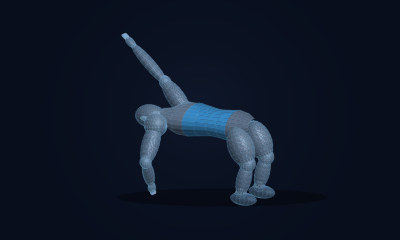
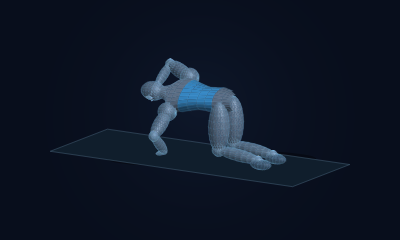
Refine 13 exercise demos with coordinated motion and fitted equipment

diff --git a/resources/js/Support/exerciseApparatusRefinements.js b/resources/js/Support/exerciseApparatusRefinements.js
@@ -1,0 +1,200 @@
+/** Dedicated apparatus and coordinated movement cycles for the eighth artwork revision. */
+import { motionGeometry as g } from './exerciseMotionRefinements.js';
+const { sides, add, sub, mul, unit, mix, cycle, bend, arm, leg, trunk, feet, sample } = g;
+const tau = Math.PI * 2;
+export const APPARATUS_DEMOS = ['rowing-machine', 'shoulder-press', 'stair-climber', 'skull-crusher', 'mountain-climber', 'seated-calf-raise', 'pull-up', 'swimming', 't-bar-row', 'thoracic-rotation', 'triceps-bench-dip', 'glute-bridge', 'burpee'];
+
+export function apparatusPose(pose, slug, phase) {
+    const t = (1 - Math.cos(tau * phase)) / 2;
+    pose.prone = false; pose.horizontal = false; pose.palms = false;
+    pose.grip = !['swimming', 'thoracic-rotation', 'glute-bridge', 'mountain-climber', 'burpee', 'triceps-bench-dip'].includes(slug);
+    trunk(pose, [0, .94, 0]); feet(pose);
+    if (slug === 'rowing-machine') {
+        const [slide, tilt, pull] = sample([[0, 0, .18, 0], [.26, 1, .18, 0], [.40, 1, -.18, 1], [.54, 1, -.18, 0], [.64, 1, .18, 0], [1, 0, .18, 0]], phase);
+        trunk(pose, [0, .53, .20 - .40 * slide], [0, Math.cos(tilt), Math.sin(tilt)]);
+        pose.legs = sides.map(side => leg(add(pose.pelvis, [side * .12, 0, 0]), [side * .14, .22, .58], [0, 1, 0]));
+        const shoulderZ = pose.arms[0].shoulder[2];
+        pose.arms = pose.arms.map((a, i) => arm(a.shoulder, [sides[i] * .08, .90, shoulderZ + .50 - .29 * pull], sides[i], [sides[i], -.3, -1]));
+    } else if (slug === 'shoulder-press') {
+        pose.arms = pose.arms.map((a, i) => arm(a.shoulder, [sides[i] * (.47 - .31 * t), 1.53 + .46 * t, .04], sides[i], [sides[i], -1, 0]));
+    } else if (slug === 'skull-crusher') {
+        pose.horizontal = true;
+        trunk(pose, [0, .61, .20], [0, 0, -1]); feet(pose, .23, .76);
+        pose.arms = pose.arms.map(a => {
+            const elbow = add(a.shoulder, [0, .30, -.015]), angle = .06 + 1.78 * t;
+            return { shoulder: a.shoulder, elbow, wrist: add(elbow, [0, .28 * Math.cos(angle), -.28 * Math.sin(angle)]) };
+        });
+    } else if (slug === 'pull-up') {
+        trunk(pose, [0, 1.12 + .42 * t, 0]); feet(pose, .14, .02, .285 + .42 * t);
+        pose.arms = pose.arms.map((a, i) => arm(a.shoulder, [sides[i] * .31, 2.20, 0], sides[i], [sides[i], -.4, .15]));
+    } else if (slug === 'seated-calf-raise') {
+        trunk(pose, [0, .61, 0]);
+        const angle = .20 + .70 * t;
+        pose.footTips = sides.map(side => [side * .15, .15, .56]);
+        pose.legs = sides.map((side, i) => {
+            const ankle = add(pose.footTips[i], [0, .14 * Math.sin(angle), -.14 * Math.cos(angle)]);
+            return { hip: [side * .12, .61, 0], knee: [side * .15, ankle[1] + .429, ankle[2] - .015], ankle };
+        });
+        pose.arms = pose.arms.map((a, i) => arm(a.shoulder, add(pose.legs[i].knee, [sides[i] * .07, .15, -.08]), sides[i]));
+    } else if (slug === 'stair-climber') {
+        trunk(pose, [0, 1.15 + .008 * Math.cos(tau * phase * 2), 0]);
+        pose.legs = sides.map((side, i) => {
+            const u = cycle(phase + i * .5), swing = Math.max(0, (u - .60) / .40);
+            const progress = swing ? .60 * (1 - g.smooth(swing)) : u;
+            const ankle = [side * .14, .56 - .36 * progress + .10 * Math.sin(Math.PI * swing), .30 - .45 * progress];
+            return leg(add(pose.pelvis, [side * .12, -.025, 0]), ankle);
+        });
+        pose.arms = pose.arms.map((a, i) => arm(a.shoulder, [sides[i] * .34, 1.58, .48], sides[i], [sides[i], -.8, 0]));
+    } else if (slug === 'mountain-climber') {
+        pose.prone = true; pose.palms = true;
+        const axis = unit([0, .29, -.957]);
+        trunk(pose, [0, .35, .17], axis);
+        pose.arms = pose.arms.map((a, i) => arm(a.shoulder, [sides[i] * .25, .065, -.37], sides[i], [sides[i], .2, .7]));
+        pose.legs = sides.map((side, i) => {
+            const drive = Math.max(0, Math.sin(tau * phase + i * Math.PI));
+            const hip = add(pose.pelvis, [side * .12, 0, 0]), ankle = [side * .15, .08 + .08 * drive, .96 - 1.05 * drive];
+            return leg(hip, ankle, [0, 1, -1]);
+        });
+    } else if (slug === 'swimming') {
+        pose.prone = true; pose.horizontal = true;
+        const roll = .10 * Math.sin(tau * phase);
+        trunk(pose, [0, .51, .12], [0, 0, -1], [Math.cos(roll), Math.sin(roll), 0]);
+        pose.arms = pose.arms.map((a, i) => {
+            const u = cycle(phase + i * .5);
+            const [y, z] = sample([[0, 0, -.56], [.20, -.23, -.36], [.45, -.12, .46], [.62, .22, .28], [.85, .16, -.40], [1, 0, -.56]], u);
+            return arm(a.shoulder, add(a.shoulder, [sides[i] * .03, y, z]), sides[i], [sides[i] * .3, u < .45 ? -1 : 1, 0]);
+        });
+        pose.legs = sides.map((side, i) => {
+            const hip = add(pose.pelvis, [side * .12, 0, 0]), kick = .10 * Math.sin(tau * phase * 2 + i * Math.PI);
+            const axis = [0, Math.sin(kick), Math.cos(kick)], knee = add(hip, mul(axis, .43));
+            return { hip, knee, ankle: add(knee, mul(axis, .43)) };
+        });
+        pose.footTips = pose.legs.map(l => add(l.ankle, [0, 0, .15]));
+    } else if (slug === 't-bar-row') {
+        trunk(pose, [0, .87, -.15], unit([0, .62, .785])); feet(pose, .25);
+        const angle = .36 + .18 * t, pivot = [0, .055, 1.75], grip = add(pivot, [0, 1.75 * Math.sin(angle), -1.75 * Math.cos(angle)]);
+        pose.arms = pose.arms.map((a, i) => arm(a.shoulder, add(grip, [sides[i] * .08, 0, 0]), sides[i], [sides[i], -.3, -1]));
+    } else if (slug === 'thoracic-rotation') {
+        pose.prone = true; pose.palms = true;
+        const turn = 1.12 * t, right = [Math.cos(turn), Math.sin(turn), 0];
+        trunk(pose, [0, .56, .28], [0, 0, -1], right);
+        pose.pelvisRight = [1, 0, 0];
+        pose.legs = sides.map(side => ({ hip: [side * .12, .56, .28], knee: [side * .13, .13, .28], ankle: [side * .13, .085, .705] }));
+        pose.arms[0] = arm(pose.arms[0].shoulder, [-.23, .065, -.23], -1, [-1, 0, 0]);
+        const a = pose.arms[1], wrist = add(pose.head, mul(right, .075));
+        pose.arms[1] = arm(a.shoulder, wrist, 1, right);
+    } else if (slug === 'triceps-bench-dip') {
+        pose.palms = true;
+        trunk(pose, [0, .54 - .20 * t, .16], unit([0, 1, -.08])); feet(pose, .18, .72);
+        pose.arms = pose.arms.map((a, i) => arm(a.shoulder, [sides[i] * .31, .56, -.15], sides[i], [sides[i] * .2, -.1, -1]));
+    } else if (slug === 'glute-bridge') {
+        pose.horizontal = true;
+        const angle = .05 + .55 * t, up = [0, -Math.sin(angle), -Math.cos(angle)], neck = [0, .13, -.38];
+        trunk(pose, sub(neck, mul(up, .63)), up);
+        pose.head = [0, .13, -.54];
+        pose.legs = sides.map(side => leg(add(pose.pelvis, [side * .12, 0, 0]), [side * .18, .08, .73], [0, 1, 0]));
+        pose.arms = pose.arms.map((a, i) => arm(a.shoulder, [sides[i] * .29, .065, .25], sides[i], [sides[i], .2, 0]));
+    } else if (slug === 'burpee') {
+        const [hipY, hipZ, tilt, ankleZ, ankleY, handY, handZ] = sample([
+            [0, .94, 0, 0, .05, .08, .90, .05],
+            [.12, .40, -.05, 1.25, .05, .08, .065, .55],
+            [.20, .39, -.16, 1.22, -.48, .20, .065, .55],
+            [.28, .346, -.214, 1.245, -1, .08, .065, .55],
+            [.39, .21, -.175, 1.46, -1, .08, .065, .55],
+            [.50, .346, -.214, 1.245, -1, .08, .065, .55],
+            [.57, .39, -.16, 1.22, -.48, .20, .065, .55],
+            [.64, .40, -.05, 1.25, .05, .08, .065, .55],
+            [.78, 1.19, 0, 0, .05, .33, 2.22, .07],
+            [.89, .80, -.06, .15, .05, .08, 1.15, .24],
+            [1, .94, 0, 0, .05, .08, .90, .05],
+        ], phase);
+        trunk(pose, [0, hipY, hipZ], [0, Math.cos(tilt), Math.sin(tilt)]);
+        feet(pose, .18, ankleZ, ankleY);
+        pose.legs.forEach(l => { l.knee = bend(l.hip, l.ankle, .43, .43, [0, 1, 1]); });
+        pose.arms = pose.arms.map((a, i) => arm(a.shoulder, [sides[i] * .25, handY, handZ], sides[i], [sides[i] * .65, .55, -.6]));
+        pose.palms = handY < .12;
+    }
+    return pose;
+}
+
+export function apparatusEquipment(pose, slug, phase) {
+    const items = [];
+    const line = (points, role = 'frame', width = 4, color = '#839db5') => items.push({ type: 'line', points, role, width, color });
+    const face = (points, role = 'pad', color = '#30495e') => items.push({ type: 'face', points, role, color });
+    const ball = (center, radii, role = 'weight', color = [66, 92, 116], basis) => items.push({ type: 'ellipsoid', center, radii, role, color, basis });
+    const pad = (y, z0, z1, width = .22, role = 'bench') => {
+        face([[-width, y, z0], [width, y, z0], [width, y, z1], [-width, y, z1]], role);
+        for (const z of [z0 + .06, z1 - .06]) {
+            line([[0, .04, z], [0, y, z]]);
+            line([[-width - .10, .04, z], [width + .10, .04, z]]);
+        }
+    };
+    const dumbbell = center => {
+        line([add(center, [0, 0, -.10]), add(center, [0, 0, .10])], 'grip', 3, '#c4d5e6');
+        for (const sign of sides) ball(add(center, [0, 0, sign * .10]), [.065, .065, .03]);
+    };
+    if (['glute-bridge', 'thoracic-rotation', 'mountain-climber', 'burpee'].includes(slug)) face([[-.50, -.008, -1.30], [.50, -.008, -1.30], [.50, -.008, 1.30], [-.50, -.008, 1.30]], 'ground', '#101e2c');
+    if (['shoulder-press', 'skull-crusher'].includes(slug)) pose.arms.forEach(a => dumbbell(a.wrist));
+    if (slug === 'skull-crusher') pad(.49, -.75, .38);
+    if (slug === 'pull-up') {
+        line([[-.65, 2.20, 0], [.65, 2.20, 0]], 'pull-up-bar', 4, '#b9cfe5');
+        for (const side of sides) { line([[side * .65, .04, 0], [side * .65, 2.20, 0]], 'upright'); line([[side * .65, .04, -.4], [side * .65, .04, .4]], 'base'); }
+    }
+    if (slug === 'triceps-bench-dip') pad(.495, -.45, -.10, .5, 'hand-support');
+    if (slug === 'rowing-machine') {
+        line([[0, .32, -.55], [0, .32, .78]], 'seat-rail', 6);
+        for (const z of [-.55, .85]) line([[-.36, .06, z], [.36, .06, z]], 'base', 5);
+        const seatZ = pose.pelvis[2];
+        face([[-.23, .42, seatZ - .14], [.23, .42, seatZ - .14], [.23, .42, seatZ + .14], [-.23, .42, seatZ + .14]], 'sliding-seat');
+        ball([0, .46, 1.04], [.13, .34, .34], 'flywheel', [53, 75, 95]);
+        line([[0, .09, .85], [0, .65, 1.04], [0, .78, .97]], 'frame');
+        face([[-.14, .79, .93], [.14, .79, .93], [.14, .91, 1.02], [-.14, .91, 1.02]], 'display', '#335676');
+        for (const l of pose.legs) {
+            const x = l.ankle[0];
+            face([[x - .09, .12, .51], [x + .09, .12, .51], [x + .09, .22, .77], [x - .09, .22, .77]], 'footplate');
+            line([[x - .09, .21, .64], [x + .09, .21, .64]], 'foot-strap', 3, '#98aec3');
+        }
+        line(pose.arms.map(a => a.wrist), 'handle', 5, '#c2d6e6');
+        line([mix(pose.arms[0].wrist, pose.arms[1].wrist, .5), [0, .90, .99], [0, .70, 1.04]], 'chain', 1.5, '#b1c4d9');
+    }
+    if (slug === 'stair-climber') {
+        for (const side of sides) {
+            const x = side * .40;
+            line([[x, .04, -.35], [x, .04, .8], [x, .70, .8]], 'machine-side', 5);
+            line([[x, .60, .60], [x, 1.64, .60], [side * .34, 1.58, .48], [side * .34, 1.40, .10]], 'handrail', 4);
+        }
+        const offset = cycle(phase * 2) / 2;
+        for (let i = 1; i < 5; i++) {
+            const y = .12 + i * .18 - offset * .36, z = -.15 + i * .225 - offset * .45;
+            face([[-.36, y, z - .11], [.36, y, z - .11], [.36, y, z + .115], [-.36, y, z + .115]], 'step', '#456077');
+            face([[-.36, y - .18, z - .11], [.36, y - .18, z - .11], [.36, y, z - .11], [-.36, y, z - .11]], 'riser', '#25394c');
+        }
+        face([[-.20, 1.66, .56], [.20, 1.66, .56], [.20, 1.82, .70], [-.20, 1.82, .70]], 'display', '#335676');
+    }
+    if (slug === 'seated-calf-raise') {
+        pad(.50, -.24, .12, .25, 'seat');
+        pad(.115, .49, .65, .35, 'toe-platform');
+        const knee = mix(pose.legs[0].knee, pose.legs[1].knee, .5), top = add(knee, [0, .065, 0]);
+        ball(top, [.29, .055, .11], 'thigh-pad', [51, 72, 94]);
+        line([[0, .04, -.32], [0, .70, -.32], top, add(top, [0, 0, .28])], 'loaded-lever', 5);
+        line([add(top, [-.42, 0, .20]), add(top, [.42, 0, .20])], 'weight-axle');
+        for (const side of sides) ball(add(top, [side * .34, 0, .20]), [.035, .13, .13]);
+        pose.arms.forEach(a => line([add(a.wrist, [0, -.08, 0]), a.wrist], 'handle', 4));
+    }
+    if (slug === 't-bar-row') {
+        const pivot = [0, .055, 1.75], grip = mix(pose.arms[0].wrist, pose.arms[1].wrist, .5), axis = unit(sub(grip, pivot));
+        line([pivot, add(grip, mul(axis, .10))], 'anchored-bar', 4, '#b7cde1');
+        line(pose.arms.map(a => a.wrist), 'handle', 5);
+        ball(add(grip, mul(axis, -.27)), [.18, .045, .18], 'weight', [63, 84, 109], [[1, 0, 0], axis, [0, -axis[2], axis[1]]]);
+        face([[-.22, .01, 1.56], [.22, .01, 1.56], [.22, .01, 1.92], [-.22, .01, 1.92]], 'anchor');
+    }
+    if (slug === 'swimming') {
+        face([[-.65, .39, -1.55], [.65, .39, -1.55], [.65, .39, 1.50], [-.65, .39, 1.50]], 'ground', '#122c40');
+        for (const side of sides) line([[side * .57, .40, -1.55], [side * .57, .40, 1.5]], 'lane-rope', 2, '#477e9f');
+        for (let i = 0; i < 4; i++) {
+            const z = -.9 + i * .6 + .05 * Math.sin(tau * phase);
+            line([[-.48, .40, z], [-.36, .40, z + .04], [-.26, .40, z]], 'ripple', 1, '#31546c');
+        }
+    }
+    return items;
+}

diff --git a/resources/js/Support/exerciseDemoScene.js b/resources/js/Support/exerciseDemoScene.js
@@ -1,10 +1,11 @@
+import { APPARATUS_DEMOS } from './exerciseApparatusRefinements.js';
 /** Original articulated mannequin used to render the exercise GIFs and posters. */
 import { archetypeFor, focusFor, loadFor } from './exerciseArchetypes.js';
 import { correctExercisePose, exerciseEquipment } from './exerciseCorrections.js';
 import { FORM_DEMOS } from './exerciseFormCorrections.js';
 import { MOTION_DEMOS } from './exerciseMotionRefinements.js';
 
-const AUTHORED_LOADS = [...FORM_DEMOS, ...MOTION_DEMOS];
+const AUTHORED_LOADS = [...FORM_DEMOS, ...MOTION_DEMOS, ...APPARATUS_DEMOS];
 
 const add = (a, b) => a.map((v, i) => v + b[i]);
 const sub = (a, b) => a.map((v, i) => v - b[i]);
@@ -547,7 +548,7 @@ export function exerciseCamera(slug) {
     if (cameraFrames.has(slug)) return cameraFrames.get(slug);
     const initial = exercisePose(slug, 0);
     const horizontal = slug === 'bench-press' || initial.prone || initial.horizontal;
-    const yaw = ['incline-treadmill-walk','box-jump','broad-jump','burpee','battle-ropes','calf-raise','cycling','elliptical-trainer','front-raise','hanging-leg-raise','concentration-curl','goblet-squat','kettlebell-swing','landmine-press','lat-pulldown','machine-chest-press','leg-extension','leg-press','incline-dumbbell-curl'].includes(slug) ? -1.05 : horizontal ? -1.02 : .48;
+    const yaw = ['rowing-machine','stair-climber','t-bar-row','seated-calf-raise','triceps-bench-dip','incline-treadmill-walk','box-jump','broad-jump','burpee','battle-ropes','calf-raise','cycling','elliptical-trainer','front-raise','hanging-leg-raise','concentration-curl','goblet-squat','kettlebell-swing','landmine-press','lat-pulldown','machine-chest-press','leg-extension','leg-press','incline-dumbbell-curl'].includes(slug) ? -1.05 : horizontal ? -1.02 : .48;
     const pitch = horizontal ? .24 : .12;
     const cy = Math.cos(yaw), sy = Math.sin(yaw), cp = Math.cos(pitch), sp = Math.sin(pitch);
     const project = ([x,y,z]) => [x*cy-z*sy, -y*cp+(x*sy+z*cy)*sp, (x*sy+z*cy)*cp+y*sp];
@@ -644,7 +645,9 @@ export function drawExerciseDemo(canvas, slug, phase) {
     const up=unit(sub(pose.neck,pose.pelvis));
     const right=unit(sub(pose.right??[1,0,0],mul(up,dot(pose.right??[1,0,0],up))));
     const forward=mul(unit(cross(right,up)),pose.prone?-1:1),basis=[right,up,forward];
-    const body=(height,x,depth)=>add(add(mix(pose.pelvis,pose.neck,height),[0,(pose.spineArch??0)*Math.sin(Math.PI*height),0]),add(mul(right,x),mul(forward,depth)));
+    const localRight=height=>pose.pelvisRight?unit(mix(pose.pelvisRight,right,Math.max(0,Math.min(1,height)))):right;
+    const localForward=height=>mul(unit(cross(localRight(height),up)),pose.prone?-1:1);
+    const body=(height,x,depth)=>add(add(mix(pose.pelvis,pose.neck,height),[0,(pose.spineArch??0)*Math.sin(Math.PI*height),0]),add(mul(localRight(height),x),mul(localForward(height),depth)));
     // Hand-authored slugs keep their original tinting; archetypes derive it.
     const focus=focusFor(slug);
     const chestFocus=['bench-press','push-up'].includes(slug)||focus==='chest'||focus==='arms';
@@ -657,7 +660,7 @@ export function drawExerciseDemo(canvas, slug, phase) {
         const vertices = rings.map(([height,width,depth]) => Array.from({length:segments}, (_,index) => {
             const angle=index/segments*Math.PI*2;
             const point=body(height,Math.cos(angle)*width,Math.sin(angle)*depth);
-            const normal=unit(add(mul(right,Math.cos(angle)/width),mul(forward,Math.sin(angle)/depth)));
+            const normal=unit(add(mul(localRight(height),Math.cos(angle)/width),mul(localForward(height),Math.sin(angle)/depth)));
             return {point:camera(point),normal};
         }));
         for(let ring=0;ring<rings.length-1;ring++) {
@@ -685,11 +688,11 @@ export function drawExerciseDemo(canvas, slug, phase) {
         ellipsoid(arm.elbow,[.044,.046,.043]);
         bone(arm.elbow,arm.wrist,.047,.039);
         const handAxis=unit(sub(arm.wrist,arm.elbow)),handEnd=add(arm.wrist,mul(handAxis,.085));
-        if ((pose.palms || ['bird-dog','cat-cow','clap-push-up','close-grip-push-up'].includes(slug)) && (slug!=='clap-push-up' || arm.wrist[1]<.12)) {
+        if (((pose.palms && (arm.wrist[1]<.12 || ['incline-push-up','triceps-bench-dip'].includes(slug))) || ['bird-dog','cat-cow','clap-push-up','close-grip-push-up'].includes(slug)) && (slug!=='clap-push-up' || arm.wrist[1]<.12)) {
             bone(arm.wrist,add(arm.wrist,[0,-.025,-.09]),.033,.018);
         } else if(slug==='clap-push-up') {
             ellipsoid(arm.wrist,[.018,.05,.03]);
-        } else if (['bench-press','dumbbell-curl','incline-treadmill-walk','ab-wheel-rollout','battle-ropes'].includes(slug) || (FORM_DEMOS.includes(slug) && !['dead-bug','cat-cow'].includes(slug)) || loadFor(slug)) {
+        } else if (pose.grip || ['bench-press','dumbbell-curl','incline-treadmill-walk','ab-wheel-rollout','battle-ropes'].includes(slug) || (FORM_DEMOS.includes(slug) && !['dead-bug','cat-cow'].includes(slug)) || loadFor(slug)) {
             ellipsoid(arm.wrist,[.043,.039,.038]);
             ellipsoid(add(arm.wrist,[.027,.017,.012]),[.014,.025,.018]);
         } else {
@@ -713,12 +716,15 @@ export function drawExerciseDemo(canvas, slug, phase) {
             ellipsoid(end,[.034,.132,.132],[59,75,101]);
         }
     }
-    pose.legs.forEach((leg)=>{
+    pose.legs.forEach((leg,index)=>{
         bone(leg.hip,leg.knee,.092,.097,legsFocus?blue:neutral);
         ellipsoid(leg.knee,[.058,.059,.061]);
         bone(leg.knee,leg.ankle,.059,.053);
         ellipsoid(leg.ankle,[.036,.038,.042]);
-        if(slug==='calf-raise') {
+        if(pose.footTips?.[index]) {
+            bone(leg.ankle,pose.footTips[index],.048,.025);
+            ellipsoid(pose.footTips[index],[.05,.026,.035]);
+        } else if(slug==='calf-raise') {
             bone(leg.ankle,[leg.ankle[0],.04,.12],.048,.025);
         } else if (plank) {
             bone(leg.ankle,add(leg.ankle,[0,-.06,.13]),.047,.033);

diff --git a/resources/js/Support/exerciseArchetypes.js b/resources/js/Support/exerciseArchetypes.js
@@ -203,6 +203,18 @@ export const loadFor = (slug) => ARCHETYPES[slug]?.load ?? null;
 
 /** Coaching line for an archetype-driven exercise. */
 const MOVEMENT_CUES = {
+    'rowing-machine': 'push through the footplates, lean back slightly, then pull the handle; return arms first, then bend your knees.',
+    'shoulder-press': 'press the dumbbells overhead with a steady trunk, then lower toward shoulder height.',
+    'stair-climber': 'alternate steps on the moving treads and use the rails lightly for balance.',
+    'skull-crusher': 'lie on the bench, keep upper arms steady, and bend your elbows to lower the dumbbells beside your head.',
+    'mountain-climber': 'keep hands planted and alternate bringing each knee forward beneath your trunk.',
+    'seated-calf-raise': 'place thighs beneath the pad and toes on the platform; lift and lower your heels with control.',
+    'pull-up': 'hold the fixed overhead bar, pull your chin toward bar height, and lower with control.',
+    'swimming': 'alternate freestyle arm strokes with a small flutter kick and gentle torso rotation.',
+    't-bar-row': 'hinge at the hips with a steady back, pull the anchored bar toward your trunk, and lower with control.',
+    'thoracic-rotation': 'start on hands and knees, place one hand beside your head, and open that elbow while keeping hips steady.',
+    'triceps-bench-dip': 'keep palms on the bench and feet grounded; bend your elbows to lower, then press up.',
+    'glute-bridge': 'keep shoulders and feet grounded, raise your hips into alignment with your thighs, then lower with control.',
     'concentration-curl': 'sit with feet apart, brace your upper arm against your inner thigh, and curl one dumbbell without moving the elbow.',
     'goblet-squat': 'hold one weight at your chest, sit down between your hips, and stand with your feet planted.',
     'hamstring-stretch': 'lie on your back, support the raised thigh, and hold a comfortable stretch without bouncing.',

diff --git a/resources/js/Support/exerciseCorrections.js b/resources/js/Support/exerciseCorrections.js
@@ -1,3 +1,4 @@
+import { APPARATUS_DEMOS, apparatusPose, apparatusEquipment } from './exerciseApparatusRefinements.js';
 /** Authored movements and equipment for exercises that cannot share a generic cycle. */
 import { refineExerciseForm, formEquipment } from './exerciseFormCorrections.js';
 import { MOTION_DEMOS, refineMotion, motionEquipment } from './exerciseMotionRefinements.js';
@@ -54,6 +55,7 @@ function burpeeFloor(lowered=false) {
 }
 
 export function correctExercisePose(pose,slug,phase) {
+    if (APPARATUS_DEMOS.includes(slug)) return apparatusPose(pose, slug, phase);
     if (MOTION_DEMOS.includes(slug)) return refineMotion(pose, slug, phase);
     const t=(1-Math.cos(phase*Math.PI*2))/2;
     if(slug==='box-jump'||slug==='broad-jump') {
@@ -118,6 +120,7 @@ export function correctExercisePose(pose,slug,phase) {
 
 /** Equipment primitives are also used to fit cameras and verify attachments. */
 export function exerciseEquipment(pose,slug,phase) {
+    if (APPARATUS_DEMOS.includes(slug)) return apparatusEquipment(pose, slug, phase);
     if (MOTION_DEMOS.includes(slug)) return motionEquipment(pose, slug, phase);
     const items=[];
     const line=(points,color='#8fa8bc',width=1.5,role='frame')=>items.push({type:'line',points,color,width,role});

diff --git a/resources/js/Support/exerciseDemos.js b/resources/js/Support/exerciseDemos.js
@@ -1,3 +1,4 @@
+import { APPARATUS_DEMOS } from './exerciseApparatusRefinements.js';
 /**
  * Hand-authored two-pose exercise demonstrations.
  *
@@ -104,7 +105,7 @@ export const EXERCISE_DEMOS = {
 export const demoFor = (slug, name = null) => {
     const key = typeof slug === 'string' ? slug.toLowerCase().trim().replaceAll('_', '-').replaceAll(' ', '-') : '';
     // Bump when replacing public assets so returning browsers fetch the new artwork.
-    const artworkVersion = MOTION_DEMOS.includes(key) ? 'motion-7' : FORM_DEMOS.includes(key) ? 'form-6' : CORRECTED_DEMOS.includes(key) ? 'equipment-5' : key === 'incline-treadmill-walk' ? 'treadmill-4' : 'wireframe-3';
+    const artworkVersion = APPARATUS_DEMOS.includes(key) ? 'apparatus-8' : MOTION_DEMOS.includes(key) ? 'motion-7' : FORM_DEMOS.includes(key) ? 'form-6' : CORRECTED_DEMOS.includes(key) ? 'equipment-5' : key === 'incline-treadmill-walk' ? 'treadmill-4' : 'wireframe-3';
 
     const readableName = name ?? key.replaceAll('-', ' ').replace(/^./, (c) => c.toUpperCase());
     const hand = Object.hasOwn(EXERCISE_DEMOS, key) ? EXERCISE_DEMOS[key] : null;

diff --git a/resources/js/Support/exerciseMotionRefinements.js b/resources/js/Support/exerciseMotionRefinements.js
@@ -67,6 +67,8 @@ function sample(frames, phase) {
     return a.slice(1).map((value, i) => value + (b[i + 1] - value) * t);
 }
 
+export const motionGeometry = { sides, add, sub, mul, dot, unit, mix, smooth, cycle, bend, arm, leg, trunk, feet, seated, sample };
+
 export function refineMotion(pose, slug, phase) {
     if (!MOTION_DEMOS.includes(slug)) return pose;
     const t = (1 - Math.cos(tau * phase)) / 2;
